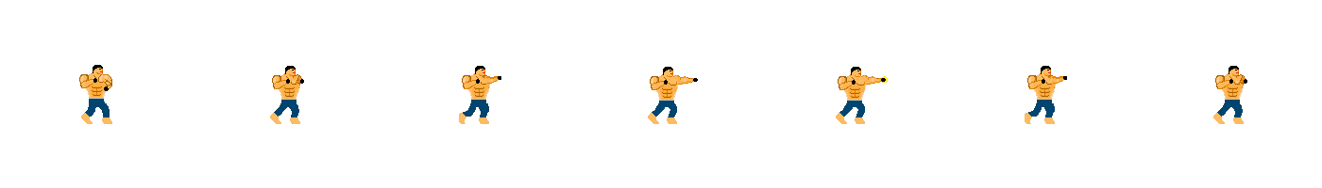
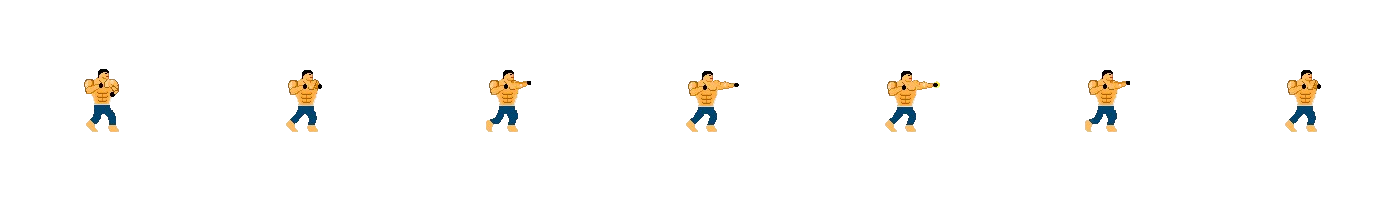
add attacked motion

diff --git a/WorldClassFighter/src/Player.js b/WorldClassFighter/src/Player.js
@@ -4,6 +4,7 @@ class Player extends Sprite {
 		this.playerData = playerData[`${playerType}`];
 		this.velocity = velocity;
 		this.isAttacking = 0;
+		this.isAttacked = 0;
 		this.attackCooltime = 0;
 		this.direction = false; // false가 오른쪽봄, true가 왼쪽 봄
 		this.maxHealth = this.playerData.maxHealth; // 100%라는 뜻임
@@ -51,10 +52,14 @@ class Player extends Sprite {
 			this.attackCooltime--;
 		if(this.isAttacking)
 			this.isAttacking--;
+		if(this.isAttacked)
+			this.isAttacked--;
 		this.changeAction("standing");
 	}
 	
 	attack(attackType) {
+		if(this.isAttacked)
+			return;
 		this.isAttacking = true;
 		this.attackCooltime = this.playerData.attackDelay;
 		let atkType = this.playerData.posture[`${attackType}`];
@@ -64,9 +69,12 @@ class Player extends Sprite {
 			this.attackBox.size.height = this.size.height;
 			this.attackBox.offset.right.y = 0;
 			this.attackBox.offset.left.y = 0;
+		} else if(attackType === "under"){
+			this.attackBox.size.height = 50;
+			this.attackBox.offset.right.y = this.size.height - 50;
+			this.attackBox.offset.left.y = this.size.height - 50;
 		} else{
 			this.attackBox.size.height = 50;
-			console.log(this.attackBox.offset.right.y);
 			this.attackBox.offset.right.y = (this.size.height / 4);
 			this.attackBox.offset.left.y = (this.size.height / 4);
 		}
@@ -91,20 +99,31 @@ class Player extends Sprite {
 	moveLeft() {
 		if(this.isAttacking && !this.isJump)
 			return;
+		if(this.isAttacked)
+			return;
 		this.velocity.x = -this.playerData.speed;
 	}
 	moveRight() {
 		if(this.isAttacking && !this.isJump)
 			return;
+		if(this.isAttacked)
+			return;
 		this.velocity.x = this.playerData.speed;
 	}
 	jump(){ 
+		if(this.isAttacked)
+			return;
 		this.velocity.y = -this.playerData.jump;
 		this.isJump = true;
 	}
 	
 	damage(amount){
+		if(this.isAttacked)
+			return;
 		this.health -= amount;
+		this.changeAction("attacked");
+		this.isAttacked = this.frameMax * this.frameCnt;
+		this.isAttacking = 0;
 		if(this.health < 0)
 			this.health = 0;
 	}
@@ -112,7 +131,10 @@ class Player extends Sprite {
 	changeAction(action){
 		
 		if (this.action === "attacking" && this.isAttacking){
-			console.log(this.frameCurrent, this.isAttacking);
+			return;
+		}
+		if (this.action === "attacked" && this.isAttacked){
+					console.log(this.isAttacked);
 			return;
 		}
 		switch (action) {
@@ -122,19 +144,28 @@ class Player extends Sprite {
 					this.image = new Image();
 					this.image.src = this.playerData.posture.stand.src;
 					this.frameMax = this.playerData.posture.stand.frameMax;
-					this.offset = this.playerData.posture.stand.offset;
 					this.frameCnt = this.playerData.posture.stand.frameCnt;
 					this.frameCurrent = 0;
 					this.framesElapsed = 0;
 				}
 				break;
+			case "attacked":
+				if (this.action !== action) {
+					this.action = "attacked";
+					this.image = new Image();
+					this.image.src = this.playerData.posture.attacked.src;
+					this.frameMax = this.playerData.posture.attacked.frameMax;
+					this.frameCnt = this.playerData.posture.attacked.frameCnt;
+					this.frameCurrent = 0;
+					this.framesElapsed = 0;
+				}
+				break;	
 			case "attacking": //front attack
 				if (this.action !== action) {
 					this.action = "attacking";
 					this.image = new Image();
 					this.image.src = this.playerData.posture.front.src;
 					this.frameMax = this.playerData.posture.front.frameMax;
-					this.offset = this.playerData.posture.front.offset;
 					this.frameCnt = this.playerData.posture.front.frameCnt;
 					this.frameCurrent = 0;
 					this.framesElapsed = 0;

diff --git a/WorldClassFighter/src/data.js b/WorldClassFighter/src/data.js
@@ -11,69 +11,54 @@ const playerData = {
 		attackDelay: 0.5 * 60,
 		posture: { // y범위 : basic, front, back은 중간 살짝 위, upper는 전체, under는 아래
 			scale: 2.4,
+			offset: {
+					x: -192,
+					y: -165,
+			},
 			stand: {  // 35X63
 				src: "./assets/player/muscleMemory/standing.png",
 				frameMax: 4,
 				frameCnt: 10,
-				offset: {
-					x: -192,
-					y: -165,
-				},
+			},
+			attacked: {
+				src: "./assets/player/muscleMemory/attacked.png",
+				frameMax: 4,
+				frameCnt: 3,
 			},
 			basic: { // 실전에서는 데미지 3배 올리기
 				power: 30,
-				distance: 45 + 42, // 비확정
+				distance: 43 + 42, // 비확정
 				src: "./assets/player/muscleMemory/attacking.png",
 				frameMax: 7,
-				frameCnt: 3,
-				offset: {
-					x: -180,
-					y: -145,
-				},
+				frameCnt: 2,
 			},
 			front: {
-				power: 40,
+				power: 35,
 				distance: 45 + 42, // 57 X 2.4 픽셀
 				src: "./assets/player/muscleMemory/attacking.png",
 				frameMax: 7,
 				frameCnt: 3,
-				offset: {
-					x: -180,
-					y: -145,
-				},
 			},
 			back: {
-				power: 60,
-				distance: 60 + 42, // 비확정
-				src: "./assets/player/muscleMemory/attacking.png",
-				frameMax: 7,
-				frameCnt: 3,
-				offset: {
-					x: -180,
-					y: -145,
-				},
-			},
-			upper: { 
-				power: 70,
+				power: 45,
 				distance: 40 + 42, // 비확정
 				src: "./assets/player/muscleMemory/attacking.png",
 				frameMax: 7,
-				frameCnt: 3,
-				offset: {
-					x: -180,
-					y: -145,
-				},
+				frameCnt: 5,
+			},
+			upper: { 
+				power: 70,
+				distance: 30 + 42, // 비확정
+				src: "./assets/player/muscleMemory/attacking.png",
+				frameMax: 7,
+				frameCnt: 7,
 			},
 			under: { 
 				power: 50,
-				distance: 70 + 42, // 비확정
+				distance: 40 + 42, // 비확정
 				src: "./assets/player/muscleMemory/attacking.png",
 				frameMax: 7,
-				frameCnt: 3,
-				offset: {
-					x: -180,
-					y: -145,
-				},
+				frameCnt: 5,
 			},
 		},
 	},

diff --git a/WorldClassFighter/src/index.js b/WorldClassFighter/src/index.js
@@ -46,11 +46,10 @@ const player = new Player({
 		x: 0,
 		y: 0,
 	},
-	
 	playerType: playerCharacter,
 	size: playerInfo.size,
 	imageSrc: playerInfo.posture.stand.src,
-	offset: playerInfo.posture.stand.offset,
+	offset: playerInfo.posture.offset,
 	frameMax: playerInfo.posture.stand.frameMax,
 	scale: playerInfo.posture.scale,
 });
@@ -66,12 +65,9 @@ const enemy = new Player({
 		y: 0,
 	},
 	playerType: enemyCharacter,
-	size: {
-		width: 50,
-		height: 50,
-	},
+	size: playerInfo.size,
 	imageSrc: enemyInfo.posture.stand.src,
-	offset: enemyInfo.posture.stand.offset,
+	offset: enemyInfo.posture.offset,
 	frameMax: enemyInfo.posture.stand.frameMax,
 	scale: enemyInfo.posture.scale,
 });
